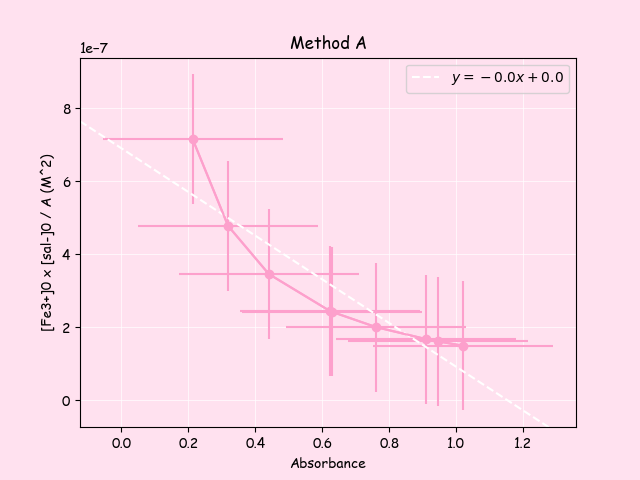
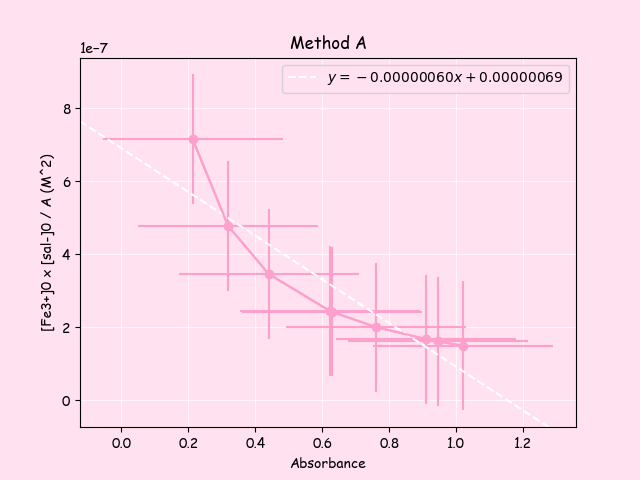
the fuck is going on

Changed region(s): [[0.5, 0.125, 0.875, 0.1875], [0.4375, 0.1562, 0.4688, 0.1875]]

diff --git a/part2.py b/part2.py
@@ -266,7 +266,7 @@ xerra = np.std(xaxis_4a)
 yerra = np.std(yaxis_4a)
 plt.errorbar(xaxis_4a, yaxis_4a, xerr = xerra , yerr = yerra, color = "#fda0cc") 
 m, b, *_ = stats.linregress(xaxis_4a, yaxis_4a)
-plt.axline(xy1=(0, b), slope=m, label=f'$y = {m:.1f}x {b:+.1f}$', color = "w", linestyle = "--")
+plt.axline(xy1=(0, b), slope=m, label=f'$y = {m:.8f}x {b:+.8f}$', color = "w", linestyle = "--")
 plt.ylabel("[Fe3+]0 x [sal-]0 / A (M^2)")
 plt.legend()
 plt.xlabel("Absorbance")
@@ -310,7 +310,7 @@ xerrb = np.std(xaxis_4b) #multiply by two or nah bc theyre on either side alread
 yerrb = np.std(yaxis_4b)
 plt.errorbar(xaxis_4b, yaxis_4b, xerr = xerrb , yerr = yerrb, color = "#fda0cc")
 m, b, *_ = stats.linregress(xaxis_4b, yaxis_4b)
-plt.axline(xy1=(0, b), slope=m, label=f'$y = {m:.1f}x {b:+.1f}$', color = "w", linestyle = "--")
+plt.axline(xy1=(0, b), slope=m, label=f'$y = {m:.8f}x {b:+.8f}$', color = "w", linestyle = "--")
 plt.plot(xaxis_4b, yaxis_4b, marker = 'o', color = "#fda0cc" )
 plt.xlabel("[Fe3+] / A  ^ (1 / 2) (M^2)")
 plt.legend()
